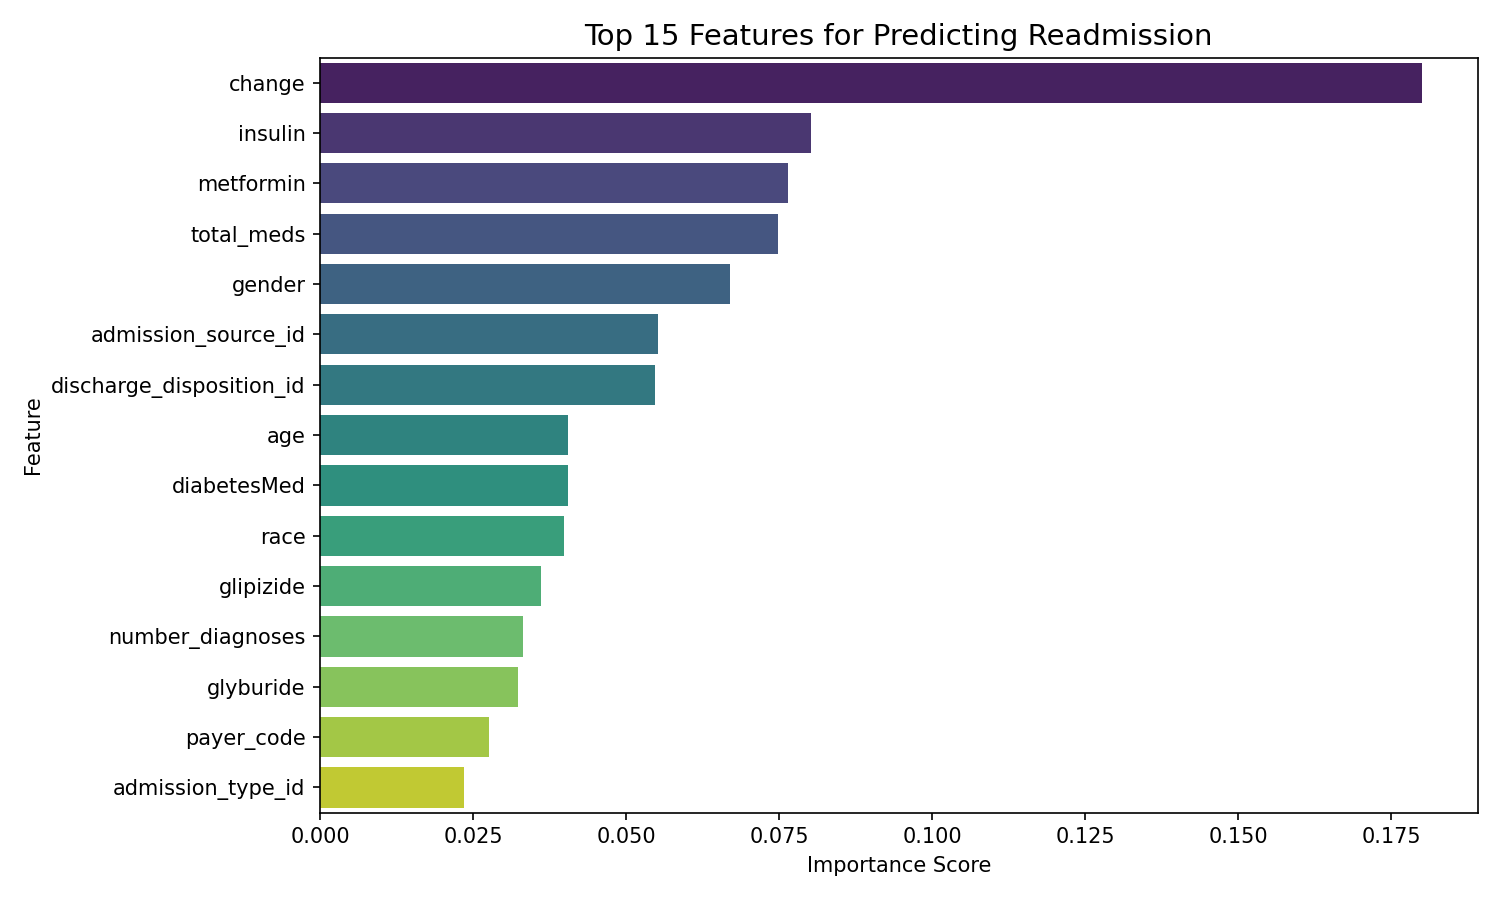
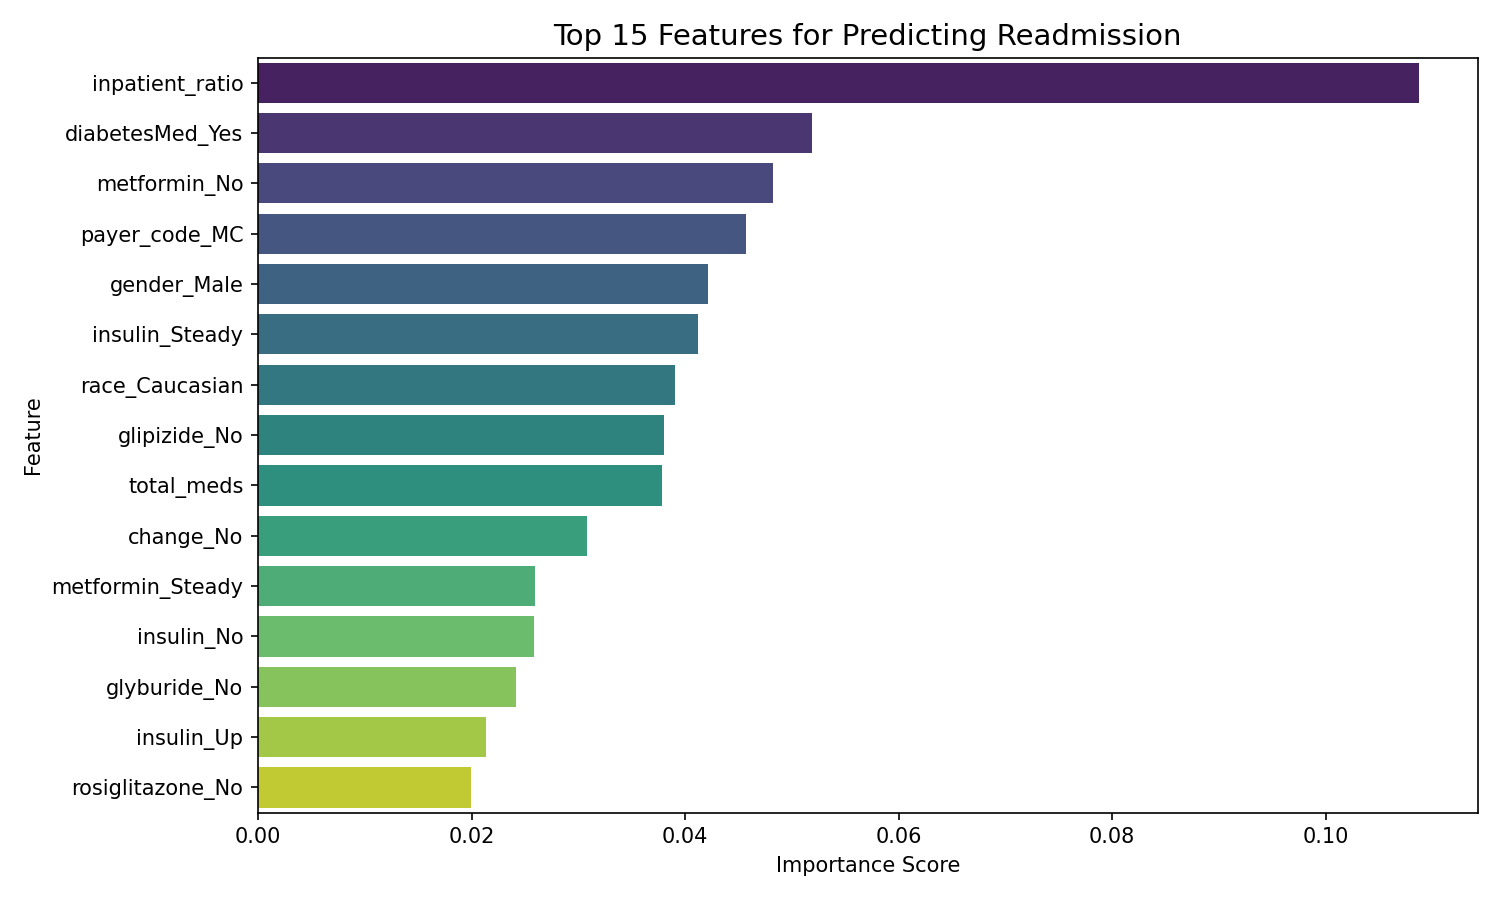
Removed some features that created noise to improve accuracy scores.

diff --git a/pipeline.py b/pipeline.py
@@ -77,6 +77,8 @@ def engineer_features(df):
     df['high_utilizer'] = (df['number_inpatient'] > 2).astype(int)
 
     print(f"Added features: age (numeric), num_med_changes, total_meds, inpatient_ratio, total_visits, high_utilizer")
+    med_cols = [c for c in med_cols if c in df.columns]
+    df = df.drop(columns=med_cols) # drops the raw medication columns after creating useful new features
 
     return df
 
@@ -89,16 +91,22 @@ def encode_target(df):
     return df
 
 def encode_features(df):
-    """Convert text columns to numbers using one-hot encoding"""
+    """One-Hot Encoding for categorical features, assign numbers to replace text."""
     print("\nEncoding categorical features...")
-    
-    # one-hot encode
-    # (meaning they don't have too many unique values)
     cat_cols = df.select_dtypes(include='object').columns.tolist()
-    print(f"Columns to encode: {cat_cols}")
-    
-    df = pd.get_dummies(df, columns=cat_cols, drop_first=True)
-    print(f"Shape after encoding: {df.shape}")
+
+    low_cardinality = [c for c in cat_cols if df[c].nunique() < 10]
+    high_cardinality = [c for c in cat_cols if df[c].nunique() >= 10]
+
+    print(f"One-hot encoding {len(low_cardinality)} columns: {low_cardinality}")
+    print(f"Dropping {len(high_cardinality)} high-cardinality columns: {high_cardinality}")
+
+    if low_cardinality:
+        df = pd.get_dummies(df, columns=low_cardinality, drop_first=True)
+    if high_cardinality:
+        df = df.drop(columns=high_cardinality) # Drop high cardinalitiy columns to avoid too many features, noise, and overfitting.
+
+    print(f"Final shape: {df.shape}")
     return df
 
 def save_data(df, output_path):
